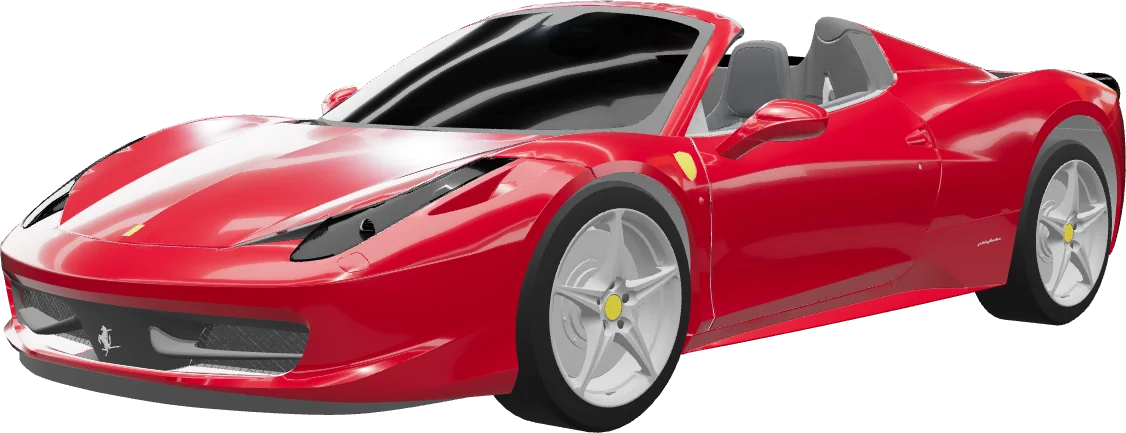
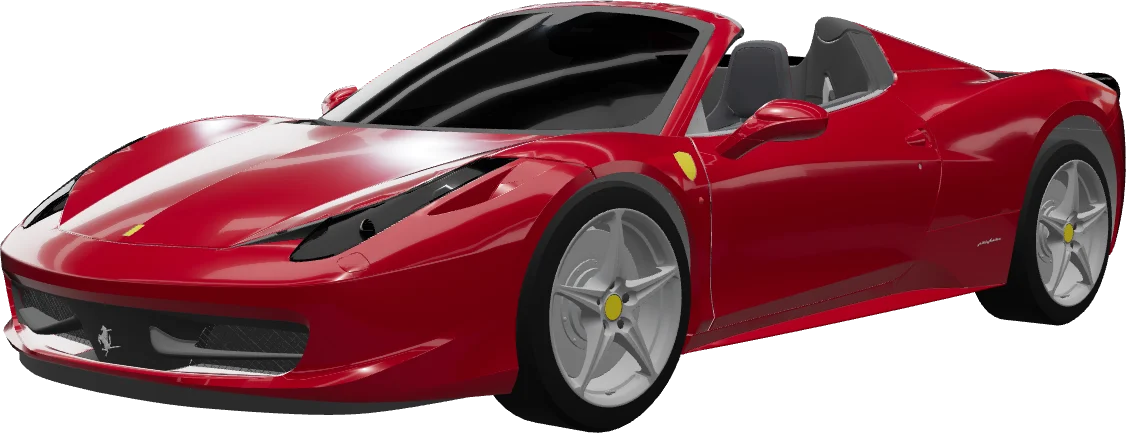
Re-render Ferrari card at lower exposure; showroom intro shows the real car count

diff --git a/app/(site)/page.tsx b/app/(site)/page.tsx
@@ -23,8 +23,8 @@ export default function HomePage() {
             </>
           }
         >
-          Twelve icons, from India&apos;s favourite hatchback to Maranello&apos;s V8. Every one opens in a live 3D studio
-          — exterior and cabin.
+          {cars.length} cars, from India&apos;s favourite hatchbacks and SUVs to Maranello&apos;s V8. Every one opens in a live
+          3D studio — exterior and cabin.
         </SectionHeading>
         <div className="mt-12">
           <Showroom cars={cars} />
